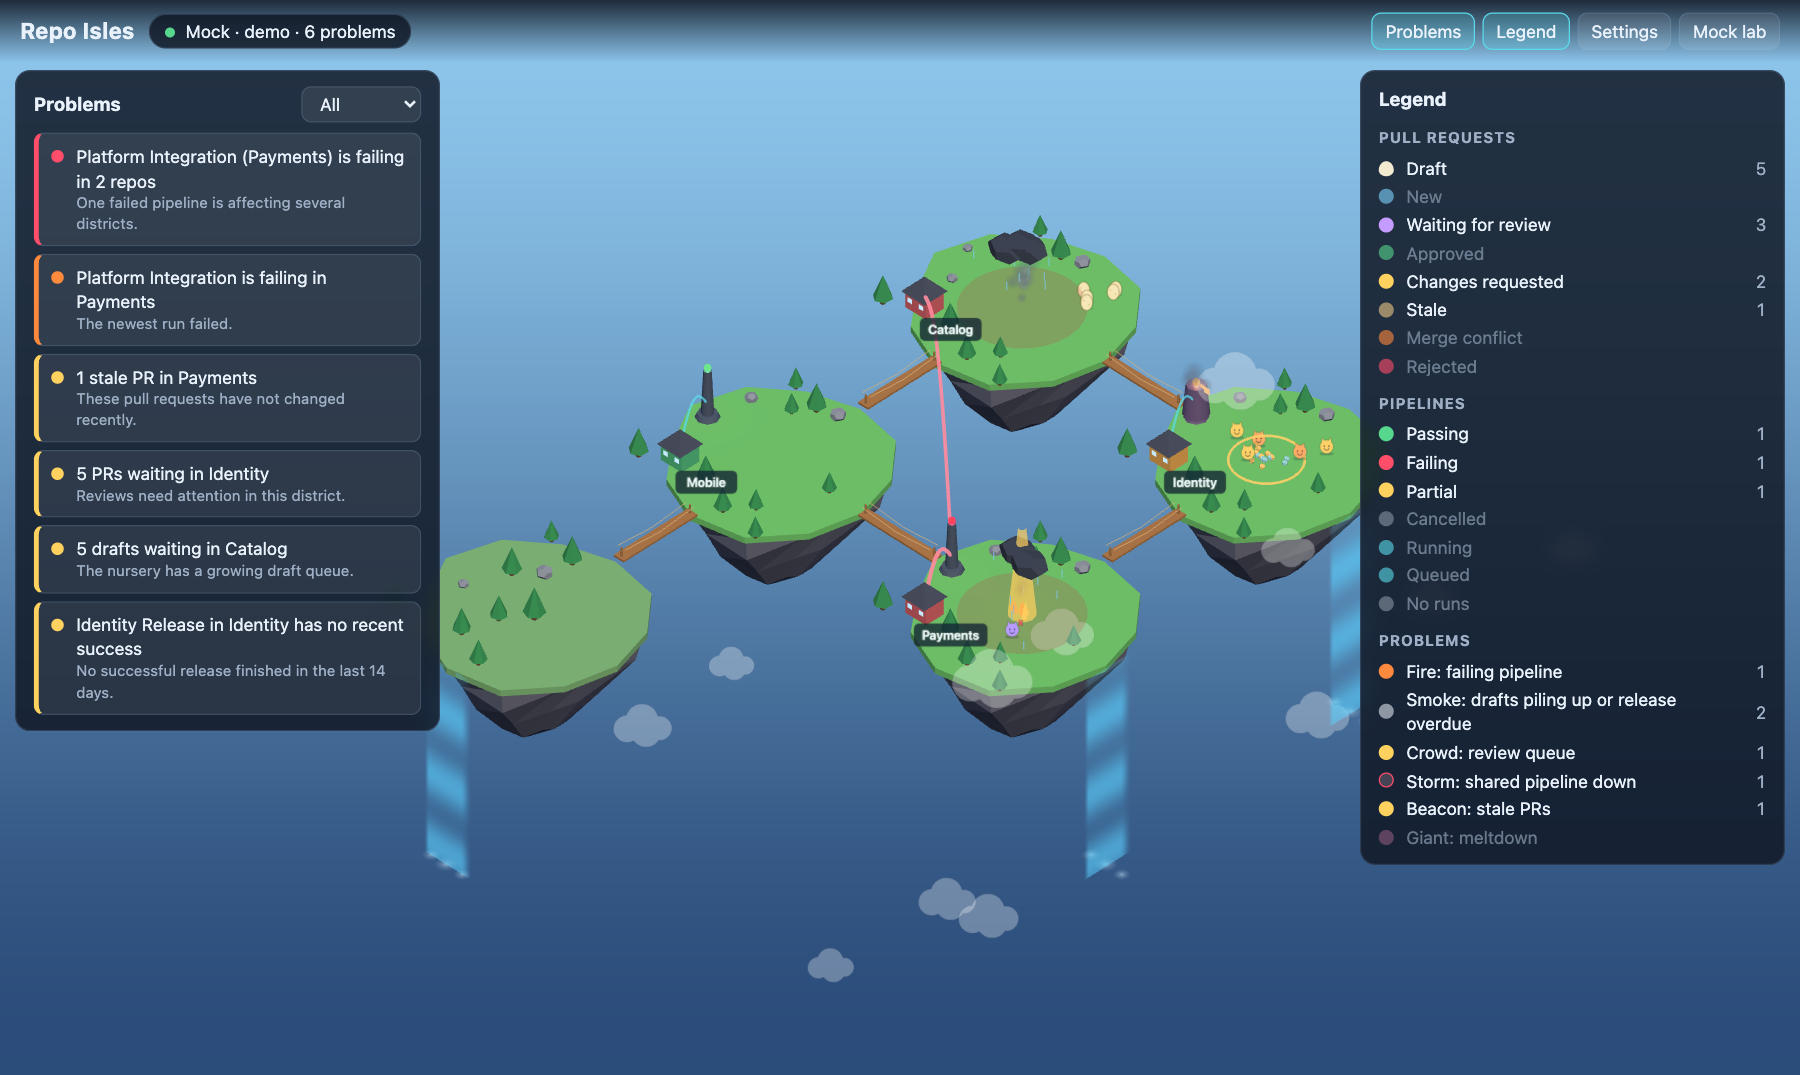
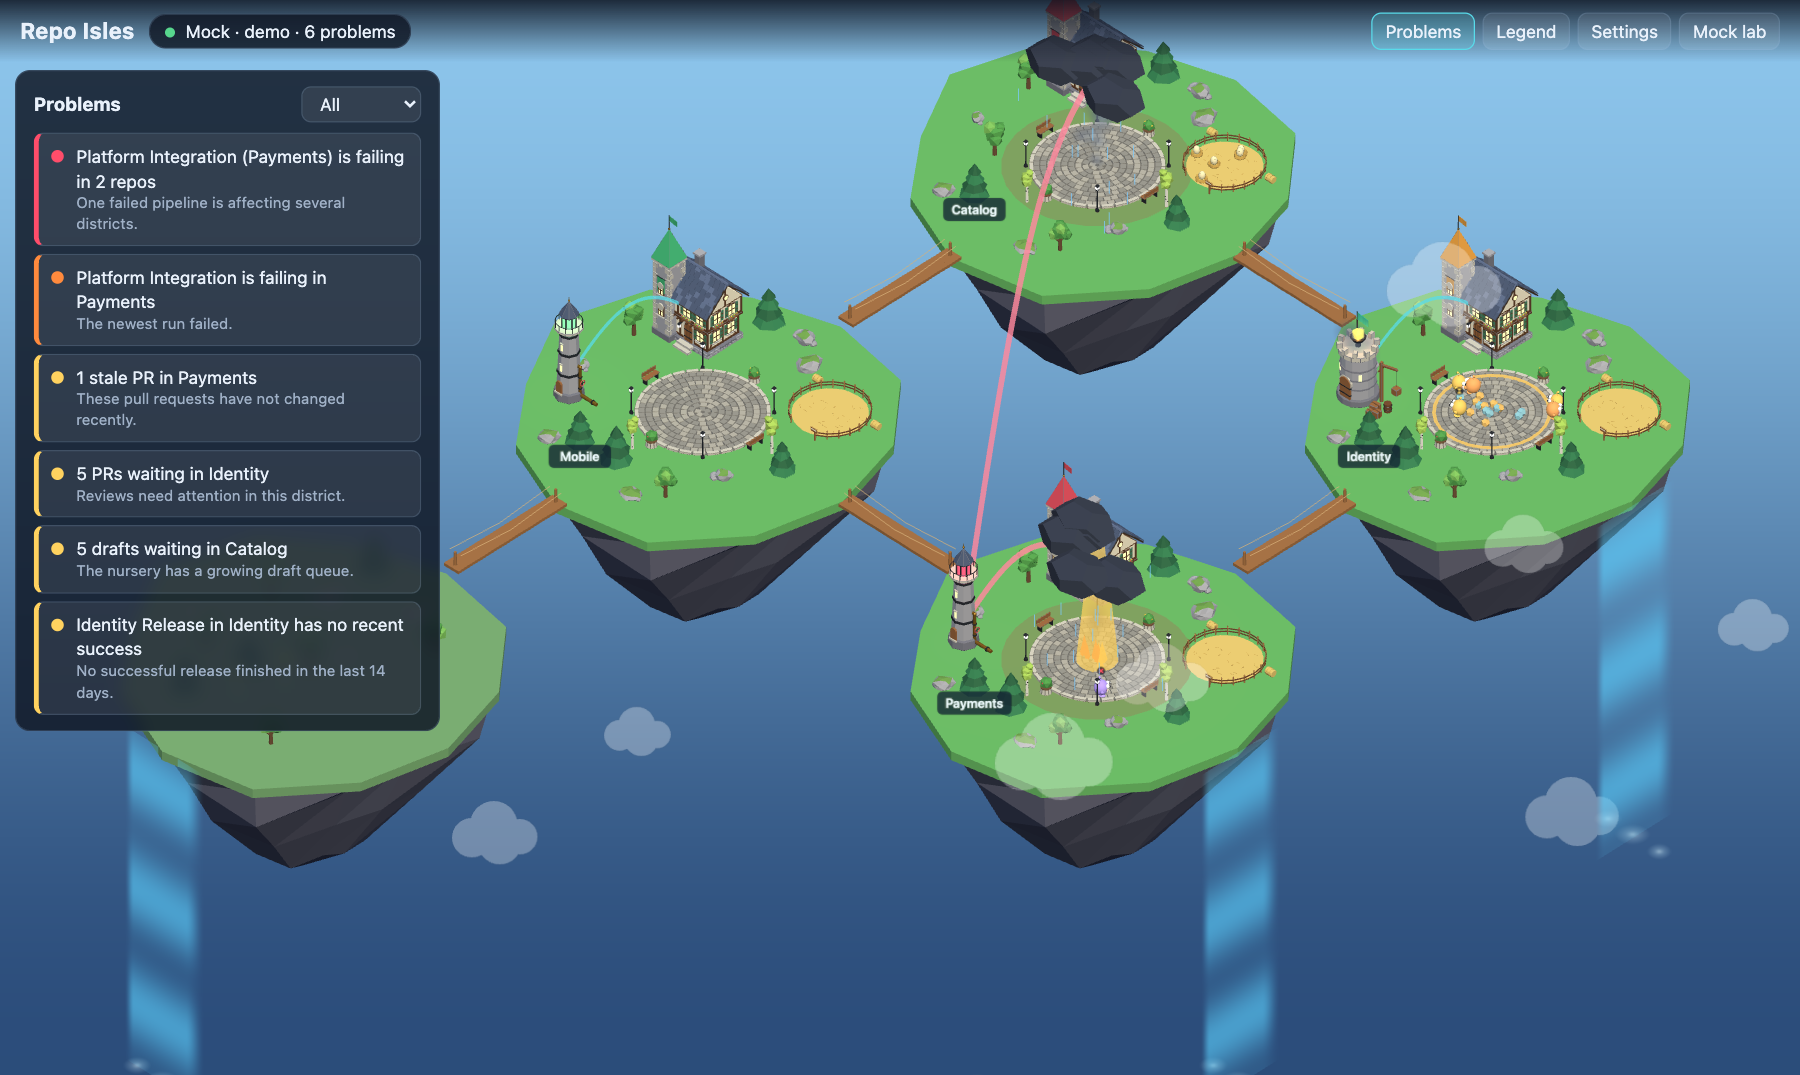
docs: model pipeline, new layout and screenshot

diff --git a/docs/SPEC.md b/docs/SPEC.md
@@ -98,12 +98,15 @@ Incidents are sorted critical → error → warning, then by title. Incident ids
 ## Layout (deterministic, pure)
 
 - Same input → same world, byte for byte. Use a seeded string hash, never `Math.random`, in core.
-- Districts sorted by name, placed on a grid `cols = ceil(sqrt(n))`, each island 14×14 units, 6-unit gaps.
+- Districts sorted by name, placed on a grid `cols = ceil(sqrt(n))`, each island 16×16 units, 6-unit gaps.
 - Empty grid cells become **filler** islands (scenery only). There is always one
   **Outskirts** island (id `outskirts`) placed after the grid for towers without a watched home.
 - Wooden **bridges** connect horizontally/vertically adjacent islands.
-- Each district has fixed sub-areas: HQ (back corner), plaza (centre), nursery (front corner), tower row (side edge).
-- Creature home positions are hashed inside their zone and never overlap the HQ/tower row.
+- Each district is laid out around the island centre (the camera looks from +x/+z): the plaza in the
+  middle (radius 2.6), the HQ at the back so it never hides creatures, the nursery to the right
+  (radius 1.5), and pipeline towers on rings to the left and back. Up to 25 towers per island get
+  their own non-overlapping slot; everything stays inside the island's rounded outline.
+- Creature home positions are hashed inside their zone.
 
 ## The world (renderer)
 
@@ -114,12 +117,19 @@ Incidents are sorted critical → error → warning, then by title. Incident ids
 - **Sky**: vertical gradient background with drifting clouds **below** the islands (decorative, not pickable).
 - **Waterfalls**: at most 3 in the world, falling off camera-facing exterior island edges
   that are not blocked by a bridge. Animated with a single time uniform. Mist at the base.
-- **Scenery**: procedural low-poly trees and rocks on free ground (instanced), seeded.
-- **HQ**: a building per district, tinted by district health.
-- **Towers**: CI towers are tall and slim; release towers are wider with a flag. A beacon light shows status colour.
-- **Creatures**: billboard sprites drawn procedurally on canvas (no image files). Body colour by mood;
-  eggs are egg-shaped and wobble. Creatures wander slowly around their home position.
-  Check overlay icon floats above.
+- **Models**: every building, creature and piece of scenery is a real low-poly model, built
+  from Blender Python scripts in `art/blender/` and exported to `public/models/kit.glb`
+  (`npm run models`). The app ships the exported kit, so Blender is only needed to change it.
+  Materials named `Accent`, `Beacon` and `Body` are recoloured at runtime.
+- **Scenery**: pine, round and birch trees and three mossy boulders on free ground (instanced), seeded.
+- **HQ**: a timber-framed town hall with a shingled roof and a stone corner tower; the spire,
+  banner and flag take the district's health colour.
+- **Towers**: CI pipelines are lighthouses fed by brass pipes; releases are harbour keeps with a
+  brazier, crates and a crane. The lantern or brazier glows in the latest run's status colour.
+- **Plaza and nursery**: a cobbled square with lamps and benches; a fenced hay paddock.
+- **Creatures**: round 3D critters coloured by mood that waddle around their home spot facing
+  where they walk; drafts are speckled eggs in straw nests that wobble. A check badge
+  (hourglass, cross) floats above.
 - **Links**: arcs from tower to covered districts. Calm cyan when fine, pulsing red when broken.
 - **Effects**: fire+smoke particles (`fire`), grey smoke (`smoke`), a ring + tight cluster (`crowd`),
   a dark storm cloud with rain and red tint over the district (`storm`), a vertical light pillar (`beacon`),

diff --git a/docs/ARCHITECTURE.md b/docs/ARCHITECTURE.md
@@ -21,7 +21,8 @@ Credentials exist only in the server's environment.
 | `core/` | Pure, deterministic logic: `selectRepos` (watch list + cap), `buildCity` (moods, towers, links, layout), `rules/` (one module per kind of problem). No clocks, randomness or I/O. | `shared` |
 | `server/providers/` | Read-only data sources implementing `Provider`: `github/`, `azure/`, `mock/` (with JSON scenarios). | `shared` |
 | `server/` | `env.ts` (environment + `isles.config.json`), `state.ts` (poll loop, caching, throttling, provider switching), `app.ts` (HTTP, `/health`, `/ws`, static files), `main.ts`. | `shared`, `core`, providers |
-| `src/render/` | The three.js world behind `createWorldView()`: islands, sky, water, scenery, buildings, creatures, links, effects, labels, picking. | `shared` |
+| `src/render/` | The three.js world behind `createWorldView()`: islands, sky, water, scenery, buildings, creatures, links, effects, labels, picking. `kit.ts` loads the model kit. | `shared` |
+| `art/blender/` | Blender Python that builds every model (`kitlib.py` primitives, `models_*.py`, `build_kit.py` export). Output: `public/models/kit.glb`. | Blender only |
 | `src/app/`, `src/ui/` | The client: socket with reconnect, a small store, and the HUD panels. | `shared`, `src/render` |
 
 ## One poll

diff --git a/README.md b/README.md
@@ -116,6 +116,21 @@ npm run check      # typecheck + tests
 npm run build      # production bundle in dist/
 ```
 
+### 3D models
+
+Every building, creature, tree and rock is built by Blender Python scripts in
+[`art/blender/`](art/blender) and exported as one kit, `public/models/kit.glb`.
+The kit is committed, so you only need [Blender](https://www.blender.org/) (tested with 5.2) to
+change it:
+
+```bash
+npm run models                                  # rebuild public/models/kit.glb
+BLENDER=/Applications/Blender.app/Contents/MacOS/Blender npm run models
+```
+
+Add `--previews <folder>` after `--out …` in that command to render a PNG of
+each model from the game camera's angle.
+
 [`docs/ARCHITECTURE.md`](docs/ARCHITECTURE.md) explains how the pieces fit and
 how to add a data source or a new kind of problem.
 [`docs/SPEC.md`](docs/SPEC.md) is the full behavioural specification.
